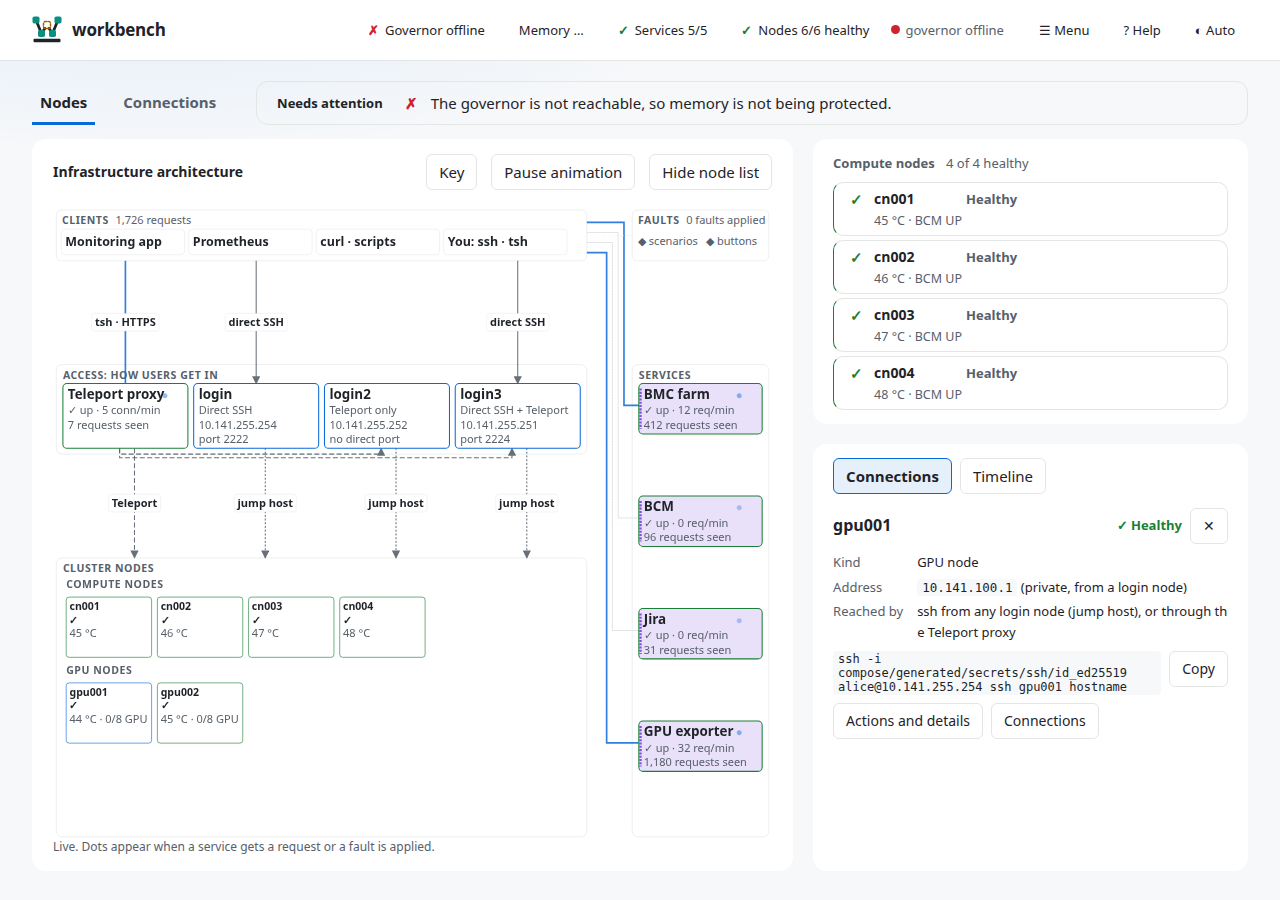
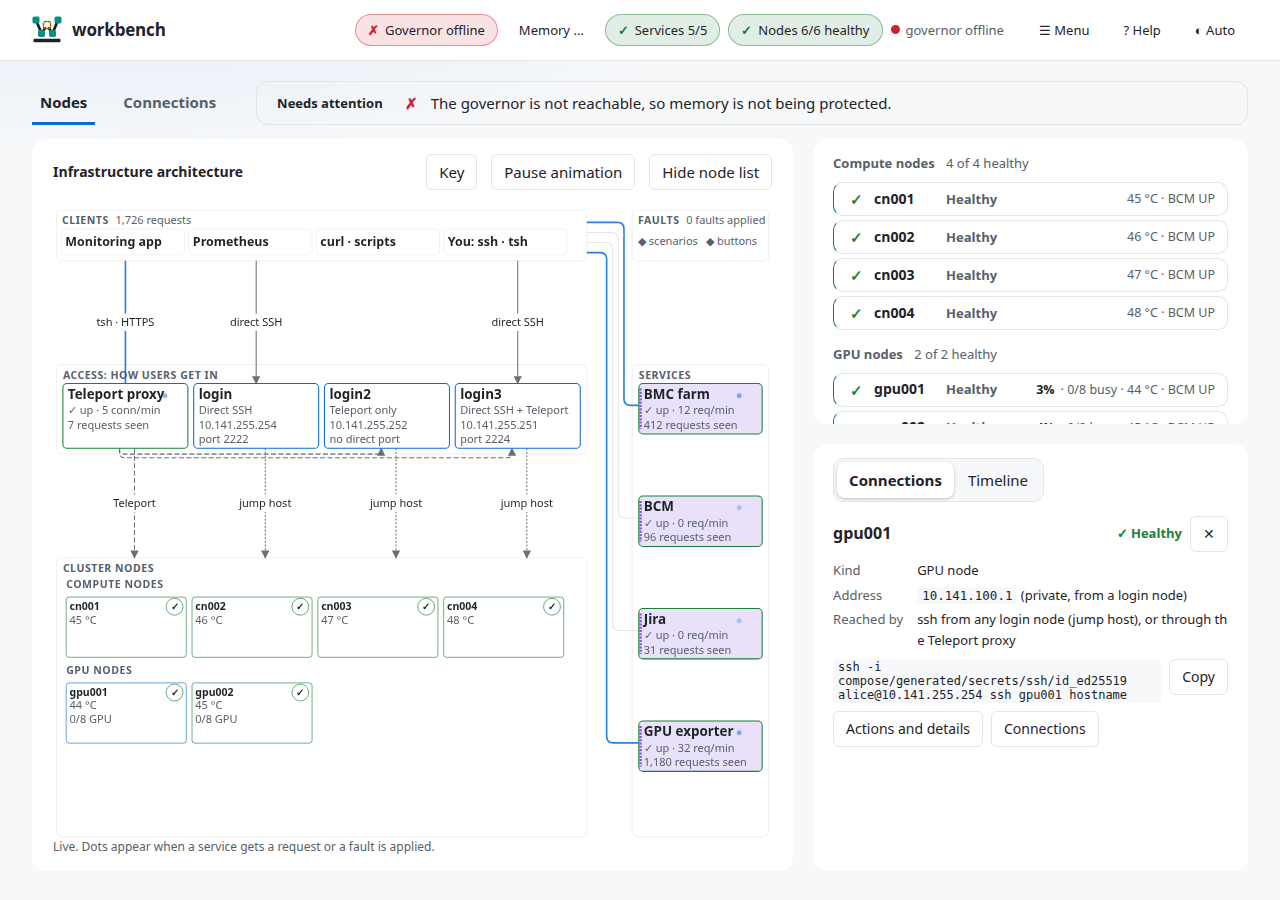
feat(webui): wiring-diagram polish: rounded lines, tile status circles, compact rows, tinted pills (#319)
Orthogonal service and access lines join with small arcs; line labels are plain
text; node tiles show a status circle (the shape still carries the state) with
the temperature under the name and the GPU load on tall tiles; node rows are one
line (state, name, label, temperature at the right); the top-strip status pills
are tinted by state; the Connections/Timeline switch is a segmented control.

diff --git a/webui/static/index.html b/webui/static/index.html
@@ -326,6 +326,13 @@
   #flow[data-fit] text { font-size:calc(var(--u,1.5) * 14px); font-weight:600; } #flow[data-fit] text.sub { font-size:calc(var(--u,1.5) * 11.5px); font-weight:400; } #flow[data-fit] .ftitle { font-size:calc(var(--u,1.5) * 11px); font-weight:700; }
   #flow[data-fit] .ndt { font-size:calc(var(--u,1.5) * 11px); } #flow[data-fit] .ndt.cl { font-size:calc(var(--u,1.5) * 13px); } #flow[data-fit=n] .ndt.cl { font-size:calc(var(--u,1.5) * 10.5px); } #flow[data-fit] text.elab { font-size:calc(var(--u,1.5) * 11.5px); } #flow[data-fit] .badge { font-size:calc(var(--u,1.5) * 12px); }
   .node.sel { outline:2px solid var(--accent); outline-offset:-2px; }
+  /* a closer look at a wiring diagram: plain labels, status in a circle on the tile, tinted status pills, one line per node, a segmented switch (#319) */
+  #flow .elbg { stroke:none; opacity:.92; } #flow[data-fit] text.elab { font-weight:500; }
+  #flow .ndc { fill:none; stroke-width:1.6; stroke:var(--dim); } #flow .ndc.ok { stroke:var(--ok); } #flow .ndc.fault { stroke:var(--bad); } #flow .ndc.warn { stroke:var(--warn); } #flow .ndg { fill:var(--fg); font-weight:700; }
+  #flow[data-fit] .ndg { font-size:calc(var(--u,1.5) * 10px); }
+  .pillchip.good { background:color-mix(in srgb,var(--ok) 13%,transparent); border-color:color-mix(in srgb,var(--ok) 45%,transparent); } .pillchip.warn { background:color-mix(in srgb,var(--warn) 13%,transparent); border-color:color-mix(in srgb,var(--warn) 45%,transparent); } .pillchip.bad { background:color-mix(in srgb,var(--bad) 13%,transparent); border-color:color-mix(in srgb,var(--bad) 45%,transparent); }
+  .itabs { background:var(--bg); border:1px solid var(--line); border-radius:10px; padding:3px; gap:2px; width:fit-content; } .itabs .btn { border:0; background:transparent; border-radius:8px; } .itabs .btn[aria-pressed=true] { background:var(--panel); box-shadow:0 1px 3px rgba(0,0,0,.25); }
+  @media (min-width:1100px) { .nodesmain .er.node { grid-template-columns:20px minmax(64px,auto) minmax(0,1fr) auto; min-height:34px; } .nodesmain .er.node .st { grid-column:3; } .nodesmain .er.node .info { grid-column:4; white-space:nowrap; text-align:right; justify-content:flex-end; } .nodesmain .er.node .info .meter { display:none; } }
   #trafficpanel { order:0; } #nodesmain { order:2; } #inspector { order:3; } .ipane#dock { display:block; } .ipane#dock[hidden] { display:block; }  /* narrow: one column, the timeline under the list */
   @media (min-width:1100px) {
     #nodeswrap { display:grid; grid-template-columns:minmax(0,1.75fr) minmax(0,1fr); grid-template-rows:minmax(0,1fr) minmax(0,1fr); grid-template-areas:"canvas list" "canvas side"; gap:var(--sp4); height:calc(100vh - 168px); min-height:600px; align-items:stretch; }
@@ -969,7 +976,17 @@ const curve = (a, b) => { const dx = (b.x - a.x) * 0.5; return [a, { x: a.x + dx
 const poly = pts => ({ poly: pts });  // straight segments (the service lines run along a channel); position by distance, like a curve by t
 const atPoly = (pts, t) => { const L = pts.slice(1).map((q, i) => Math.hypot(q.x - pts[i].x, q.y - pts[i].y)), tot = L.reduce((a, b) => a + b, 0); let d = Math.min(Math.max(t, 0), 1) * tot, i = 0; while (i < L.length - 1 && d > L[i]) d -= L[i++]; const k = L[i] ? d / L[i] : 0; return { x: pts[i].x + (pts[i + 1].x - pts[i].x) * k, y: pts[i].y + (pts[i + 1].y - pts[i].y) * k }; };
 const at = (b, t) => { if (b.poly) return atPoly(b.poly, t); const [p0, p1, p2, p3] = b; const u = 1 - t, f = (c) => u ** 3 * p0[c] + 3 * u * u * t * p1[c] + 3 * u * t * t * p2[c] + t ** 3 * p3[c]; return { x: f('x'), y: f('y') }; };
-const dpath = b => b.poly ? 'M' + b.poly.map(q => `${q.x} ${q.y}`).join(' L') : `M${b[0].x} ${b[0].y} C${b[1].x} ${b[1].y} ${b[2].x} ${b[2].y} ${b[3].x} ${b[3].y}`;
+function roundedPoly(pts, r = 16) {  // straight segments joined by small arcs, like a wiring diagram
+  let d = `M${pts[0].x} ${pts[0].y}`;
+  for (let i = 1; i < pts.length - 1; i++) {
+    const a = pts[i - 1], b = pts[i], c = pts[i + 1], l1 = Math.hypot(b.x - a.x, b.y - a.y), l2 = Math.hypot(c.x - b.x, c.y - b.y);
+    if (!l1 || !l2) { d += ` L${b.x} ${b.y}`; continue; }
+    const k = Math.min(r, l1 / 2, l2 / 2);
+    d += ` L${b.x + (a.x - b.x) * k / l1} ${b.y + (a.y - b.y) * k / l1} Q${b.x} ${b.y} ${b.x + (c.x - b.x) * k / l2} ${b.y + (c.y - b.y) * k / l2}`;
+  }
+  const z = pts[pts.length - 1]; return d + ` L${z.x} ${z.y}`;
+}
+const dpath = b => b.poly ? roundedPoly(b.poly) : `M${b[0].x} ${b[0].y} C${b[1].x} ${b[1].y} ${b[2].x} ${b[2].y} ${b[3].x} ${b[3].y}`;
 function nodeList() { try { return lastCluster ? JSON.parse(lastCluster).nodes : []; } catch (e) { return []; } }
 const SVC_CONN = { 'bmc-farm': 'bmc', 'bcm-mock': 'bcm', 'jira-mock': 'jira', 'jira-real': 'jira-real', 'gpu-exporter': 'gpu', 'teleport': 'teleport' };  // diagram box -> Connections row
 // hover tip and click pop-up on every part of the diagram (#192). The tip is one line of state; the pop-up has the address, the command and the actions.
@@ -1112,8 +1129,8 @@ function tileGrid(nodes, cols, tw, th, top = 52) {  // node tiles by group, rela
 }
 function flowGeom(nodes, acc, svcs, a, col, u) {
   const M = 8, nS = svcs.length, P = { col, u, tb: 26 }, W = (t, k, w) => textW(t, k, u, w);
-  const tw0 = Math.max(64, Math.ceil(Math.max(0, ...nodes.map(n => W(n.name, 'tile', 600))) + 16)), tn = UF.tile * u;
-  const th0 = Math.ceil(10 + tn * 0.9 + tn * 1.3 + 10), thFacts = Math.ceil(th0 + tn * 1.35), twFacts = Math.ceil(W('99 °C · 8/8 GPU', 'sub') + 14);
+  const tn = UF.tile * u, tw0 = Math.max(64, Math.ceil(Math.max(0, ...nodes.map(n => W(n.name, 'tile', 600))) + 16 + tn * 1.7));  // room for the name and the status circle
+  const th0 = Math.ceil(10 + tn * 0.9 + tn * 1.3 + 10), thFacts = Math.ceil(th0 + tn * 1.35), twFacts = Math.ceil(W('8/8 GPU', 'sub') + 16);
   P.tileM = { y1: 8 + tn * 0.9, y2: 8 + tn * 0.9 + tn * 1.3, y3: 8 + tn * 0.9 + tn * 2.6 };
   if (col) {  // top to bottom: Clients row, Access row, Cluster nodes; the Services column sits at the right and its lines run down a gutter and enter from the left
     const tb = 10 + UF.title * u * 0.95, chipH = Math.ceil(UF.chip * u * 1.3 + 22), R1 = Math.ceil(tb + 12 + chipH + 14), GAPY = 64, GW = 110;
@@ -1260,17 +1277,19 @@ function buildFlow() {
     if (item[0] === 'label') { g.append(sv('text', { class: 'ftitle', x: P.cluster.x + 24, y: P.cluster.y + item[2] + 4 }, item[1] === 'gpu' ? 'GPU nodes' : 'Compute nodes')); continue; }
     const [, n, rx, ry] = item, x = P.cluster.x + rx, ty = P.cluster.y + ry, glyph = STATE_ICON[n.state] || '?';
     const tg = asButton(sv('g', { id: 'nd-' + n.name }), `${n.name}: ${n.label}. Details`, () => openPop(tg, 'node', n.name), () => { const c = nodeList().find(m => m.name === n.name) || n; return [`${c.name} · ${c.label}`, 'click for how to reach it and its actions']; });
-    tg.append(sv('rect', { class: 'nd ' + n.state, x, y: ty, width: P.tw, height: P.th, rx: 7 }), sv('text', { class: 'ndt', x: x + 8, y: ty + tm.y1 }, n.name), sv('text', { class: 'ndt', x: x + 8, y: ty + tm.y2 }, glyph), sv('circle', { class: 'busy' + (n.gpus_busy > 0 ? ' on' : ''), cx: x + P.tw - 10, cy: ty + 12, r: 4.5 }));
-    if (P.th >= tm.y3 + 10) tg.append(sv('text', { class: 'sub', x: x + 8, y: ty + tm.y3 }, tileFacts(n)));  // a large tile has room for real numbers from the snapshot
+    const [temp, gpu] = tileFacts(n), cr = UF.tile * u * 0.8, ccx = x + P.tw - 8 - cr, ccy = ty + tm.y1 - UF.tile * u * 0.3;
+    tg.append(sv('rect', { class: 'nd ' + n.state, x, y: ty, width: P.tw, height: P.th, rx: 7 }), sv('text', { class: 'ndt', x: x + 8, y: ty + tm.y1 }, n.name), sv('text', { class: 'ndg', x: ccx, y: ccy + UF.tile * u * 0.36, 'text-anchor': 'middle' }, glyph),
+      sv('circle', { class: 'busy' + (n.gpus_busy > 0 ? ' on' : ''), cx: x + P.tw - 11, cy: ty + P.th - 11, r: 4.5 }), sv('text', { class: 'sub', x: x + 8, y: ty + tm.y2 }, temp), sv('circle', { class: 'ndc ' + n.state, cx: ccx, cy: ccy, r: cr }));
+    if (P.th >= tm.y3 + 10) tg.append(sv('text', { class: 'sub', x: x + 8, y: ty + tm.y3 }, gpu));  // a tall tile has room for the GPU load
     g.append(tg); tiles[n.name] = { x, y: ty, w: P.tw, h: P.th, g: tg };
   }
   g.append(labels, sv('g', { id: 'dots' })); paintBlocks();
 }
-const tileFacts = n => [n.temp != null ? `${n.temp} °C` : '', n.gpus ? `${n.gpus_busy || 0}/${n.gpus} GPU` : ''].filter(Boolean).join(' · ');
+const tileFacts = n => [n.temp != null ? `${n.temp} °C` : '', n.gpus ? `${n.gpus_busy || 0}/${n.gpus} GPU` : ''];
 function paintTiles() {  // node states change without a rebuild; a different node list does rebuild
   const nodes = nodeList(), sig = flowSig(nodes);
   if (sig !== flowNodes || fitKey() !== flowFitKey) { buildFlow(); return; }
-  for (const n of nodes) { const t = tiles[n.name]; if (t) { t.g.setAttribute('aria-label', `${n.name}: ${n.label}. Details`); t.g.children[0].setAttribute('class', 'nd ' + n.state); t.g.children[2].textContent = STATE_ICON[n.state] || '?'; t.g.children[3].setAttribute('class', 'busy' + (n.gpus_busy > 0 ? ' on' : '')); if (t.g.children[4]) t.g.children[4].textContent = tileFacts(n); } }
+  for (const n of nodes) { const t = tiles[n.name]; if (t) { t.g.setAttribute('aria-label', `${n.name}: ${n.label}. Details`); t.g.children[0].setAttribute('class', 'nd ' + n.state); t.g.children[2].textContent = STATE_ICON[n.state] || '?'; t.g.children[3].setAttribute('class', 'busy' + (n.gpus_busy > 0 ? ' on' : '')); const [fa, fb] = tileFacts(n); t.g.children[4].textContent = fa; if (t.g.children[6]) t.g.children[6].textContent = fb; t.g.children[5].setAttribute('class', 'ndc ' + n.state); } }
 }
 function paintBlocks() {
   if (!flowSnap || !svcPos['bmc-farm']) return;
